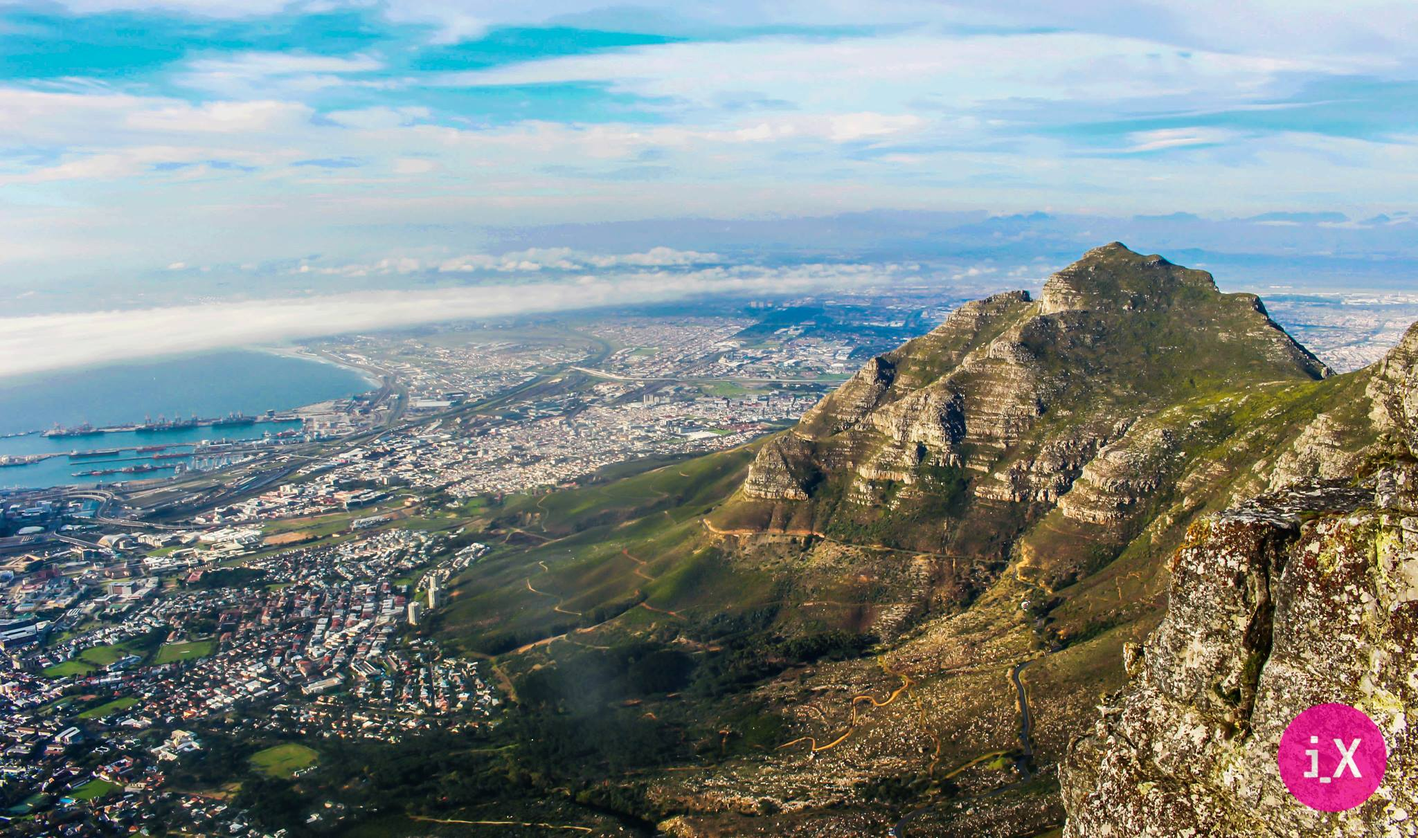
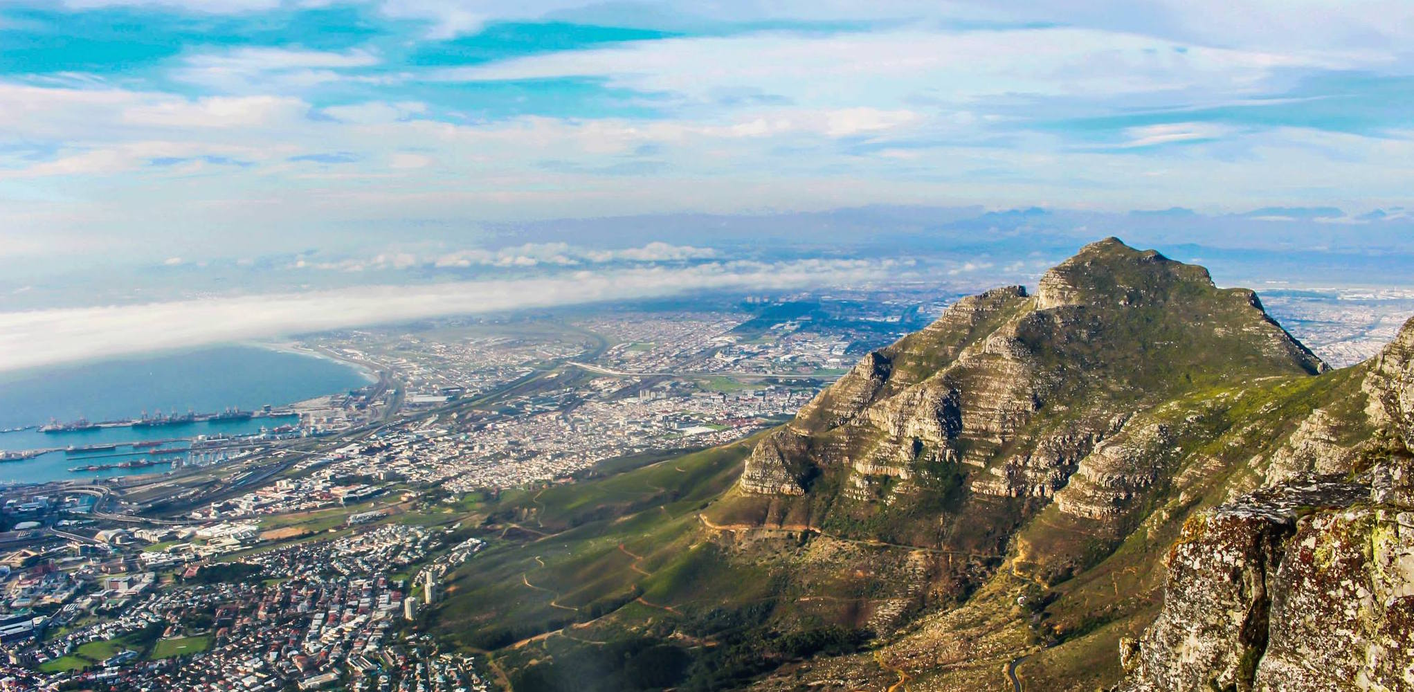
fixed photo size, other small styling things

diff --git a/app/assets/stylesheets/application.css b/app/assets/stylesheets/application.css
@@ -16,10 +16,10 @@
  *= require_self
 
  */
-
 h2 {
 	text-align: center;
 }
+
 
  .profile {
  	text-align: center;
@@ -80,8 +80,17 @@ padding: 100px 0 50px;
   font-family: 'Open Sans', 'Helvetica Neue', Helvetica, Arial, sans-serif;
 }
 
-.profile {
-	text-align: center;
 
+.link:hover {
+	text-decoration: none ;
+	color: white;
 }
-scss
+.link {
+	text-decoration: none ;
+	color: white;
+}
+img {
+	margin: 0px 52px 0px 52px;
+	width: 200px;
+	height: 200px;
+}

diff --git a/app/assets/stylesheets/profiles.css b/app/assets/stylesheets/profiles.css
@@ -2,6 +2,3 @@
 // They will automatically be included in application.css.
 // You can use Sass (SCSS) here: http://sass-lang.com/
 
-.form {
-	margin: 10px auto 10px auto;
-}
